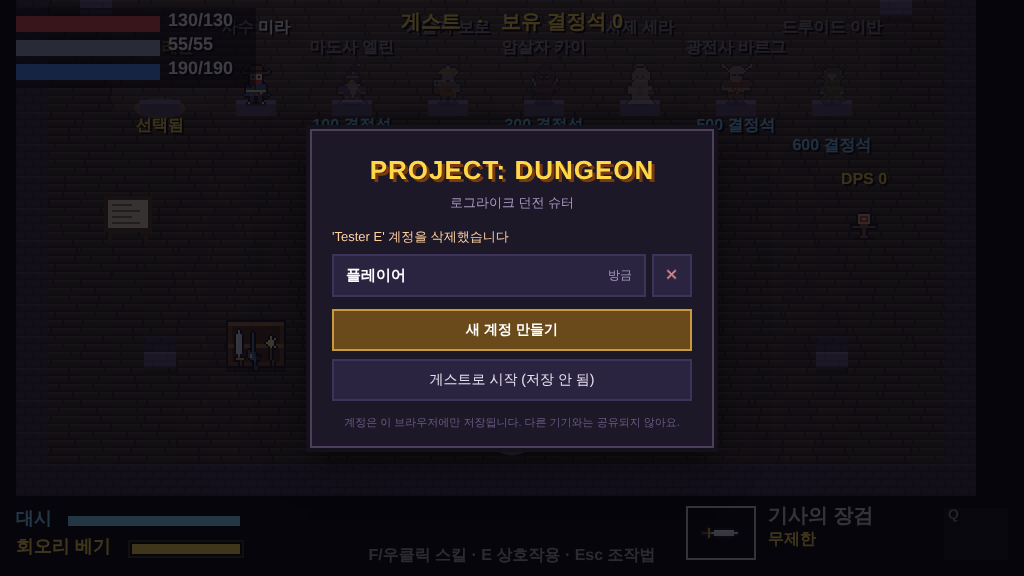
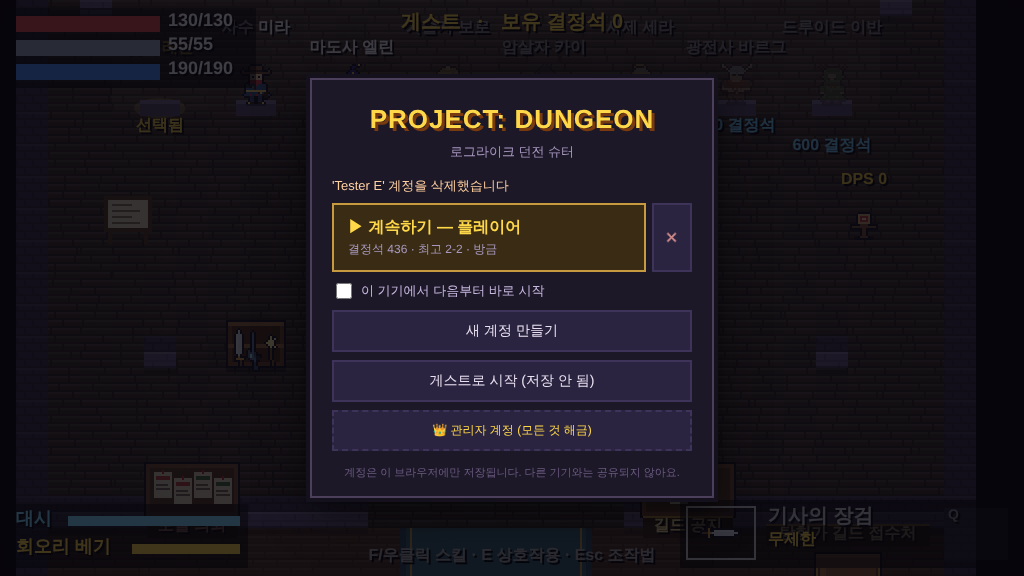
관리자 계정: 전부 해금 + 관리자 메뉴
Claude-Session: https://claude.ai/code/session_01X4GXs6swjtgSkSe7EQABgB

diff --git a/js/game.js b/js/game.js
@@ -175,7 +175,32 @@ class Game {
     this.guildEvent('runs'); writeSave(this.save);
     this.overlay = { type: 'result', victory: win, stages: 0, bosses: 0, reward: 0, trial: true };
   }
-  titleUnlocked(T) { return T.test(this.save.stats || {}, this.save); }
+  // ── 관리자 계정: 직업·무기·보구·이야기·직업 레벨 전부 해금, 결정석 넉넉히 (로그인할 때마다 다시 채움)
+  applyAdmin() {
+    const s = this.save;
+    s.unlocked = DATA_HEROES.map((h) => h.id); s.discovered = DATA_WEAPONS.map((d) => d.id); s.armory = DATA_WEAPONS.map((d) => d.id);
+    s.bank = Math.max(s.bank || 0, 999999); s.treasures = DATA_TREASURES.map((t) => t.id); if (!s.treasureEquipped) s.treasureEquipped = 'treasure_excalibur';
+    s.sanctumReached = true; s.prologueSeen = true; s.merlin = Object.assign({ gate: 1, deep: 2 }, s.merlin, { revealed: true, quest: Math.max(4, (s.merlin && s.merlin.quest) || 0) });
+    s.jobLv = {}; for (const h of DATA_HEROES) s.jobLv[h.id] = BALANCE.jobLevel.max;
+    s.scenesSeen = ['origin_arrival', 'gatekeeper_intro', 'gatekeeper_fall'];
+    writeSave(s);
+  }
+  // 관리자 메뉴 (` 키): 숫자 키로 실행
+  adminActions() {
+    const A = this.admin, d = this.mode === 'dungeon', p = this.player;
+    return [
+      { name: `무적 ${A.god ? '[켜짐]' : '[꺼짐]'}`, run: () => { A.god = !A.god; } },
+      { name: `쿨타임 없음 (스킬·보구) ${A.nocd ? '[켜짐]' : '[꺼짐]'}`, run: () => { A.nocd = !A.nocd; } },
+      { name: '체력·보호막·에너지 모두 회복', ok: d, run: () => { p.hp = p.maxHp; p.shield = p.maxShield; p.energy = p.maxEnergy; } },
+      { name: '던전 골드 +5000', ok: d && !this.trialW, run: () => { this.gold += 5000; } },
+      { name: '다음 진화 단계로', ok: d && p.line && p.rank < 2, run: () => this.evolve() },
+      { name: '이 필드의 보스 스테이지로', ok: d && !this.trialW && !this.isBossStage, run: () => { this.levelIdx = STAGES_PER_WORLD - 1; this.loadStage(); } },
+      { name: `다음 필드로 (${stageLabel(this.worldIdx + 1, 0)})`, ok: d && !this.trialW, run: () => { this.worldIdx++; this.levelIdx = 0; this.loadStage(); } },
+      { name: '결정석 999,999로 채우기', run: () => { this.save.bank = 999999; writeSave(this.save); } },
+      { name: '롱고미니아드의 시련 바로 시작', ok: !d, run: () => { this.transition = { t: 0, swapped: false, action: () => this.startRhongoTrial() }; } }
+    ];
+  }
+  titleUnlocked(T) { if (this.admin) return true; return T.test(this.save.stats || {}, this.save); }
   discover(id) { if (!this.save.discovered.includes(id)) { this.save.discovered.push(id); writeSave(this.save); } }
   resetWorldLists(map) {
     this.map = map;
@@ -397,9 +422,10 @@ class Game {
   login(profile) {
     Auth.current = profile; this.profile = profile;
     this.save = loadSave(); SFX.setMuted(!!this.save.muted);
+    this.admin = profile && profile.admin ? { god: false, nocd: false } : null; if (this.admin) this.applyAdmin();
     this.locked = false; this.enterLobby();
     if (this.save.run) this.overlay = { type: 'resume' };
-    this.showBanner(profile ? `환영합니다, ${profile.name}!` : '게스트로 시작', profile ? '진행도가 이 계정에 저장됩니다' : '게스트 진행도는 저장되지 않습니다', '#ffd84a');
+    this.showBanner(profile ? `환영합니다, ${profile.name}!` : '게스트로 시작', this.admin ? '관리자 계정 — 모든 것이 해금됨 · ` 키: 관리자 메뉴' : profile ? '진행도가 이 계정에 저장됩니다' : '게스트 진행도는 저장되지 않습니다', '#ffd84a');
   }
   logout() {
     writeSave(this.save); Auth.current = null; this.profile = null; Auth.setAuto(null);
@@ -446,12 +472,14 @@ class Game {
     if (this.overlay) { this.updateOverlay(input); input.endStep(); return; }
     if (this.cutscene) { this.screenFlash = Math.max(0, this.screenFlash - dt); this.shake = Math.max(0, (this.shake || 0) - dt); this.updateCutscene(dt, input); this.effects.update(dt); this.updateCamera(dt); input.endStep(); return; } // 컷신 중에는 세계가 멈춤 (번쩍임·흔들림은 가라앉음)
     if (input.wasPressed('Escape')) { this.overlay = { type: 'pause' }; input.endStep(); return; }
+    if (this.admin && input.wasPressed('Backquote')) { this.overlay = { type: 'admin', msg: null }; input.endStep(); return; }
     if (this.hitStopT > 0) { this.hitStopT -= dt; return; }
     this.screenFlash = Math.max(0, this.screenFlash - dt);
     if (this.cinematic) { this.updateCinematic(dt); this.effects.update(dt); this.updateCamera(dt); input.endStep(); return; }
     if (this.slowMo) dt = this.updateSlowMo(dt); // 보스 처치 슬로우모션: 시뮬레이션 시간이 느려짐
 
     const p = this.player;
+    if (this.admin && this.admin.nocd) { p.skillCooldown = 0; p.treasureCd = 0; }
     const wasDash = p.state === 'DASH';
     p.update(dt, input, this.map, this.mouseWorld());
     if (!wasDash && p.state === 'DASH') SFX.play('dash');
@@ -586,6 +614,14 @@ class Game {
         if (this.gold < price) { o.msg = `골드가 부족합니다 (${price}골드 필요)`; SFX.play('deny'); }
         else { this.gold -= price; o.npc.gone = true; this.overlay = null; this.evolve(o.npc.hybrid, o.npc.branch); }
       }
+    } else if (o.type === 'admin') { // 관리자 메뉴
+      if (o.msg) o.msg.t -= STEP;
+      if (input.wasPressed('Escape') || input.wasPressed('Backquote')) { this.overlay = null; return; }
+      const acts = this.adminActions(), m = input.mouse; let k = -1;
+      acts.forEach((_, i) => { const r = HUD.adminRow(i); if (input.wasPressed('Digit' + (i + 1)) || (input.wasPressed('Mouse0') && m.x >= r.x && m.x <= r.x + r.w && m.y >= r.y && m.y <= r.y + r.h)) k = i; });
+      if (k < 0) return; const a = acts[k]; this.input.mouse.down = false;
+      if ('ok' in a && !a.ok) { o.msg = { text: '지금은 쓸 수 없습니다', color: '#ff9a9a', t: 1.5 }; return; }
+      const closes = /스테이지로|필드로|시련|진화/.test(a.name); a.run(); if (closes) this.overlay = null; else o.msg = { text: a.name.replace(/ \[.*\]/, '') + ' — 완료', color: '#ffd84a', t: 1.5 };
     } else if (o.type === 'trial_confirm') { // 롱고미니아드의 시련: 도전 / 나중에
       const m = input.mouse, hit = (r) => m.x >= r.x && m.x <= r.x + r.w && m.y >= r.y && m.y <= r.y + r.h, click = input.wasPressed('Mouse0');
       if (input.wasPressed('Enter') || input.wasPressed('Digit1') || (click && hit(HUD.trialBtn(0)))) { this.overlay = null; this.input.mouse.down = false; this.transition = { t: 0, swapped: false, action: () => this.startRhongoTrial() }; }
@@ -1601,6 +1637,7 @@ class Game {
   }
   damagePlayer(amount) {
     const p = this.player, hp0 = p.hp;
+    if (this.admin && this.admin.god) return false; // 관리자 무적
     if (p.takeDamage(amount)) {
       this.addShake(0.15, 3);
       this.effects.text(p.x, p.y - 16, '-' + amount, '#ff6b6b', true);

diff --git a/js/ui/hud.js b/js/ui/hud.js
@@ -139,7 +139,7 @@ class HUD {
   }
   overlay(ctx, game) {
     const o = game.overlay;
-    ctx.fillStyle = o.type === 'story' || o.type === 'treasure_pick' ? '#06050a' : o.type === 'codex' || o.type === 'armory' || o.type === 'treasures' || o.type === 'joblevel' || o.type === 'archive' || o.type === 'guild' || o.type === 'hunt' || o.type === 'trade' || o.type === 'gamble' || o.type === 'trial_confirm' || o.type === 'trial_weapons' ? 'rgba(8,6,14,0.94)' : 'rgba(0,0,0,0.72)'; ctx.fillRect(0, 0, VIEW_W, VIEW_H);
+    ctx.fillStyle = o.type === 'story' || o.type === 'treasure_pick' ? '#06050a' : o.type === 'codex' || o.type === 'armory' || o.type === 'treasures' || o.type === 'joblevel' || o.type === 'archive' || o.type === 'guild' || o.type === 'hunt' || o.type === 'trade' || o.type === 'gamble' || o.type === 'trial_confirm' || o.type === 'trial_weapons' || o.type === 'admin' ? 'rgba(8,6,14,0.94)' : 'rgba(0,0,0,0.72)'; ctx.fillRect(0, 0, VIEW_W, VIEW_H);
     if (o.type === 'pause') {
       hudText(ctx, '일시정지', VIEW_W / 2, 90, '#fff', 'center', 16);
       hudText(ctx, 'WASD 이동 · 마우스 조준/공격 · Space 대시 · F/우클릭 스킬', VIEW_W / 2, 120, '#ccc', 'center', 9);
@@ -285,6 +285,13 @@ class HUD {
       hudText(ctx, `2  대가 — ${game.evolvePrice()}골드를 내고 바로 진화 (보유 ${game.gold})`, VIEW_W / 2, 160, game.gold >= game.evolvePrice() ? '#fff' : '#888', 'center', 10);
       if (o.msg) hudText(ctx, o.msg, VIEW_W / 2, 180, '#ff9a9a', 'center', 9);
       hudText(ctx, 'E / Esc: 닫기', VIEW_W / 2, VIEW_H - 16, '#888', 'center', 8);
+    } else if (o.type === 'admin') { // 관리자 메뉴
+      const m = game.input.mouse; hudText(ctx, '👑 관리자 메뉴', VIEW_W / 2, 12, '#ffd84a', 'center', 12);
+      game.adminActions().forEach((a, i) => { const r = HUD.adminRow(i), ok = !('ok' in a) || !!a.ok, on = m.x >= r.x && m.x <= r.x + r.w && m.y >= r.y && m.y <= r.y + r.h;
+        ctx.fillStyle = on && ok ? 'rgba(255,216,74,0.16)' : 'rgba(255,255,255,0.05)'; ctx.fillRect(r.x, r.y, r.w, r.h);
+        hudText(ctx, `${i + 1}  ${a.name}`, r.x + 10, r.y + 5, ok ? (/\[켜짐\]/.test(a.name) ? '#9fe89f' : '#fff') : '#555', 'left', 10); });
+      if (o.msg && o.msg.t > 0) hudText(ctx, o.msg.text, VIEW_W / 2, VIEW_H - 28, o.msg.color, 'center', 10);
+      hudText(ctx, '숫자 키 / 클릭: 실행   ·   ` / Esc: 닫기', VIEW_W / 2, VIEW_H - 12, '#888', 'center', 8);
     } else if (o.type === 'trial_confirm') { // 롱고미니아드의 시련 도전 확인
       hudText(ctx, '롱고미니아드의 시련', VIEW_W / 2, 60, '#bfe6ff', 'center', 16);
       hudText(ctx, '창에 깃든 신령 — 신령 롱고미니아드와 1:1로 싸웁니다', VIEW_W / 2, 86, '#e8e0f0', 'center', 10);
@@ -354,6 +361,7 @@ class HUD {
   // 보구 획득 알림: 오른쪽 아래에서 아이콘과 함께 미끄러져 들어와 6초 동안 표시
   static trialBtn(i) { return { x: VIEW_W / 2 - 130 + i * 140, y: 140, w: 120, h: 26 }; }
   static guildTab(i) { return { x: 60 + i * 134, y: 22, w: 126, h: 16 }; }
+  static adminRow(i) { return { x: 60, y: 32 + i * 24, w: VIEW_W - 120, h: 21 }; }
   static guildRow(i) { return { x: 40, y: 46 + i * 28, w: VIEW_W - 80, h: 25 }; }
   static titleCell(i) { return { x: 40 + (i % 2) * 218, y: 46 + Math.floor(i / 2) * 30, w: 212, h: 27 }; }
   static betRect(i) { return { x: VIEW_W / 2 - 150 + i * 104, y: 150, w: 92, h: 22 }; }

diff --git a/js/ui/login.js b/js/ui/login.js
@@ -39,22 +39,24 @@ const LoginUI = {
   },
   renderList(msg) {
     const list = Auth.list().sort((a, b) => b.last - a.last), last = list[0];
-    const rows = list.slice(1).map((p) => `<div class="lg-row"><button class="lg-prof" data-id="${p.id}"><span class="lg-name"><b>${this.esc(p.name)}</b>${p.pinHash ? ' 🔒' : ''}</span>
+    const rows = list.slice(1).map((p) => `<div class="lg-row"><button class="lg-prof" data-id="${p.id}"><span class="lg-name"><b>${this.esc(p.name)}</b>${p.admin ? ' 👑' : ''}${p.pinHash ? ' 🔒' : ''}</span>
       <span class="lg-sum">${this.sumLine(p)} · ${this.ago(p.last)}</span></button><button class="lg-del" data-del="${p.id}" title="계정 삭제">✕</button></div>`).join('');
     this.frame(`${msg ? `<div class="lg-msg">${this.esc(msg)}</div>` : ''}
-      ${last ? `<div class="lg-row"><button class="lg-cont" id="lg-cont"><span class="lg-cont-t">▶ 계속하기 — ${this.esc(last.name)}${last.pinHash ? ' 🔒' : ''}</span>
+      ${last ? `<div class="lg-row"><button class="lg-cont" id="lg-cont"><span class="lg-cont-t">▶ 계속하기 — ${this.esc(last.name)}${last.admin ? ' 👑' : ''}${last.pinHash ? ' 🔒' : ''}</span>
         <span class="lg-sum">${this.sumLine(last)} · ${this.ago(last.last)}</span></button><button class="lg-del" data-del="${last.id}" title="계정 삭제">✕</button></div>` : ''}
       ${rows ? `<div class="lg-cap">다른 계정</div><div class="lg-list">${rows}</div>` : ''}
       ${last ? '' : '<div class="lg-empty">아직 계정이 없습니다. 닉네임만 정하면 바로 시작할 수 있어요.</div>'}
       ${last ? `<label class="lg-chk"><input type="checkbox" id="lg-auto" ${this.auto ? 'checked' : ''}> 이 기기에서 다음부터 바로 시작</label>` : ''}
       <button class="lg-btn ${last ? '' : 'lg-main'}" id="lg-new">새 계정 만들기</button>
-      <button class="lg-btn" id="lg-guest">게스트로 시작 (저장 안 됨)</button>`);
+      <button class="lg-btn" id="lg-guest">게스트로 시작 (저장 안 됨)</button>
+      ${list.some((p) => p.admin) ? '' : '<button class="lg-btn lg-admin" id="lg-admin">👑 관리자 계정 (모든 것 해금)</button>'}`);
     const auto = this.root.querySelector('#lg-auto'); if (auto) auto.onchange = () => { this.auto = auto.checked; };
     if (last) this.root.querySelector('#lg-cont').onclick = () => this.pick(last);
     this.root.querySelectorAll('.lg-prof').forEach((b) => b.onclick = () => this.pick(list.find((p) => p.id === b.dataset.id)));
     this.root.querySelectorAll('.lg-del').forEach((b) => b.onclick = () => this.askDelete(list.find((p) => p.id === b.dataset.del)));
     this.root.querySelector('#lg-new').onclick = () => this.renderNew();
     this.root.querySelector('#lg-guest').onclick = () => this.enter(null);
+    const adm = this.root.querySelector('#lg-admin'); if (adm) adm.onclick = () => this.enter(Auth.admin());
     const first = this.root.querySelector(last ? '#lg-cont' : '#lg-new'); if (first) first.focus();
     this.setKeys(null); // Enter는 포커스된 버튼(기본: 계속하기)이 처리
   },

diff --git a/js/core/auth.js b/js/core/auth.js
@@ -29,11 +29,17 @@ const Auth = {
     if (pin && !/^\d{4}$/.test(pin)) throw new Error('PIN은 숫자 4자리이거나 비워 두세요');
     const all = this.list();
     if (all.some((p) => p.name === name)) throw new Error('이미 있는 닉네임입니다');
-    if (all.length >= 8) throw new Error('계정은 최대 8개까지 만들 수 있습니다');
+    if (all.filter((p) => !p.admin).length >= 8) throw new Error('계정은 최대 8개까지 만들 수 있습니다');
     const salt = Array.from(crypto.getRandomValues ? crypto.getRandomValues(new Uint8Array(8)) : [Date.now() & 255]).map((b) => b.toString(16)).join('');
     const p = { id: 'p' + Date.now().toString(36) + Math.floor(Math.random() * 1e4).toString(36), name, salt,
       pinHash: pin ? await this.hashPin(pin, salt) : null, created: Date.now(), last: Date.now() };
     all.push(p); this.saveList(all);
+    return p;
+  },
+  // 관리자 계정: 모든 것이 해금된 테스트용 계정 (이 기기에 하나, 계정 수 제한에 포함되지 않음)
+  admin() {
+    const all = this.list(); let p = all.find((x) => x.admin);
+    if (!p) { p = { id: 'p_admin', name: '관리자', admin: true, salt: '', pinHash: null, created: Date.now(), last: Date.now() }; all.push(p); this.saveList(all); }
     return p;
   },
   async verify(p, pin) { return !p.pinHash || (await this.hashPin(pin || '', p.salt)) === p.pinHash; },

diff --git a/index.html b/index.html
@@ -37,6 +37,7 @@
   .lg-btn:hover, .lg-btn:focus-visible { border-color: #a898c0; outline: none; }
   .lg-main { background: #6a4a1a; border-color: #c89a40; color: #fff; font-weight: 700; }
   .lg-main:hover { border-color: #ffd84a; }
+  .lg-admin { font-size: 12px; color: #ffd84a; border-style: dashed; }
   .lg-danger { background: #6a1a2a; border-color: #c04050; color: #fff; }
   .lg-in { padding: 10px; background: #120e1c; color: #fff; border: 2px solid #3e345a; font: inherit; font-size: 15px; }
   .lg-in:focus { border-color: #ffd84a; outline: none; }

diff --git a/CHANGELOG.md b/CHANGELOG.md
@@ -1,5 +1,10 @@
 # 변경 내역
 
+## 관리자 계정
+- 로그인 화면의 '👑 관리자 계정 (모든 것 해금)' 버튼으로 생성 (기기에 하나, 이후 계정 목록에 👑 표시, 계정 수 제한에 포함 안 됨)
+- 로그인할 때마다 전부 해금: 모든 직업 · 모든 무기 (도감 발견 + 무기고 해금) · 모든 보구 · 직업 레벨 최대 · 이야기 기록 · 칭호 · 성역/멀린 진행 완료 · 결정석 999,999
+- ` 키 관리자 메뉴: 무적 · 쿨타임 없음(스킬·보구) · 전부 회복 · 던전 골드 +5000 · 다음 진화 · 보스 스테이지로 · 다음 필드로 · 결정석 채우기 · 롱고미니아드의 시련 바로 시작
+
 ## 롱고미니아드 시련: 보스전 전 무기 선택
 - 직업 갈래를 고른 뒤 무기 도감 화면에서 들고 갈 무기를 최대 2개 고름 (도감에서 발견한 무기만, 모두 +3 강화). 클릭: 선택/해제, Enter: 보스전 시작, Esc: 그만두고 로비로
 - 기존의 무작위 전설·영웅 무기 지급은 고르는 방식으로 대체
